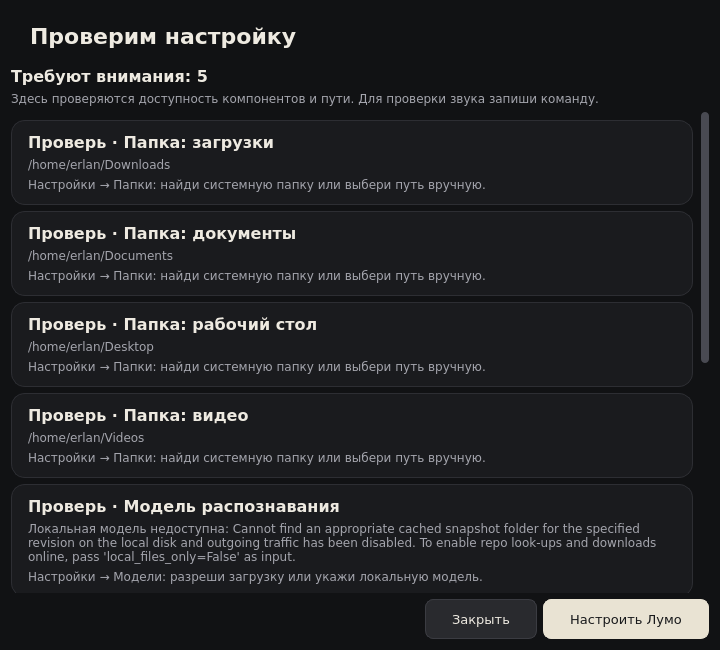
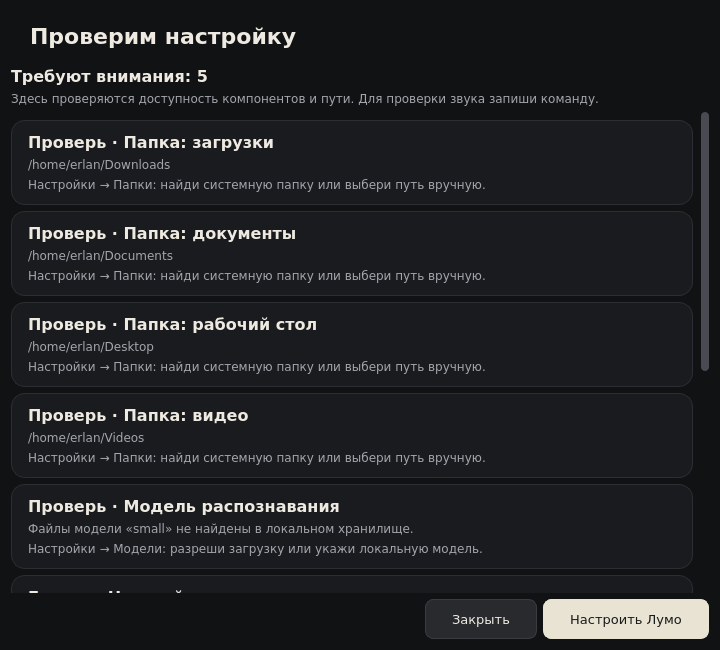
Show concise readiness hints and retain technical details in JSON

Changed region(s): [[0.0306, 0.8, 0.9167, 0.8923], [0.9778, 0.5538, 1.0, 0.5846]]

diff --git a/src/voice_control_pc/diagnostics.py b/src/voice_control_pc/diagnostics.py
@@ -24,6 +24,7 @@ class Check:
     status: str
     detail: str
     hint: str = ""
+    diagnostic: str = ""
 
     def as_dict(self):
         return asdict(self)
@@ -179,8 +180,11 @@ def check_readiness(config: ResolvedConfig, *, microphone=False, ollama=False) -
                     "asr",
                     "Модель распознавания",
                     "warning",
-                    f"Локальная модель недоступна: {error}",
+                    str(error)
+                    if isinstance(error, ValueError) and str(error).startswith("Не хватает файлов:")
+                    else f"Файлы модели «{config.settings.asr.model_name}» не найдены в локальном хранилище.",
                     hint,
+                    diagnostic=str(error),
                 )
             )
     if microphone and audio:
@@ -206,8 +210,11 @@ def check_readiness(config: ResolvedConfig, *, microphone=False, ollama=False) -
                     "microphone",
                     "Микрофон",
                     "warning",
-                    str(error),
+                    str(error)
+                    if isinstance(error, ValueError)
+                    else "Не удалось получить список микрофонов.",
                     "Проверь подключение и разрешения Windows; затем выбери устройство в настройках.",
+                    diagnostic=str(error),
                 )
             )
     if config.settings.nlu.semantic_enabled:
@@ -232,8 +239,9 @@ def check_readiness(config: ResolvedConfig, *, microphone=False, ollama=False) -
                         "ollama",
                         "Понимание свободных команд",
                         "warning",
-                        f"Ollama недоступен: {error}",
+                        "Локальный сервис Ollama недоступен или вернул некорректный ответ.",
                         "Запусти Ollama с выбранной моделью или отключи его в настройках моделей.",
+                        diagnostic=str(error),
                     )
                 )
         else:

diff --git a/tests/test_diagnostics.py b/tests/test_diagnostics.py
@@ -93,7 +93,8 @@ def test_unavailable_ollama_is_a_report_not_an_exception(config, monkeypatch):
     monkeypatch.setattr(diagnostics, "ollama_models", Mock(side_effect=ConnectionError("offline")))
     result = checks_by_key(config, ollama=True)["ollama"]
     assert result.status == "warning"
-    assert "offline" in result.detail
+    assert "offline" in result.diagnostic
+    assert "недоступен" in result.detail
 
 
 def test_ollama_uses_loopback_bounded_read_and_no_proxy(monkeypatch):
